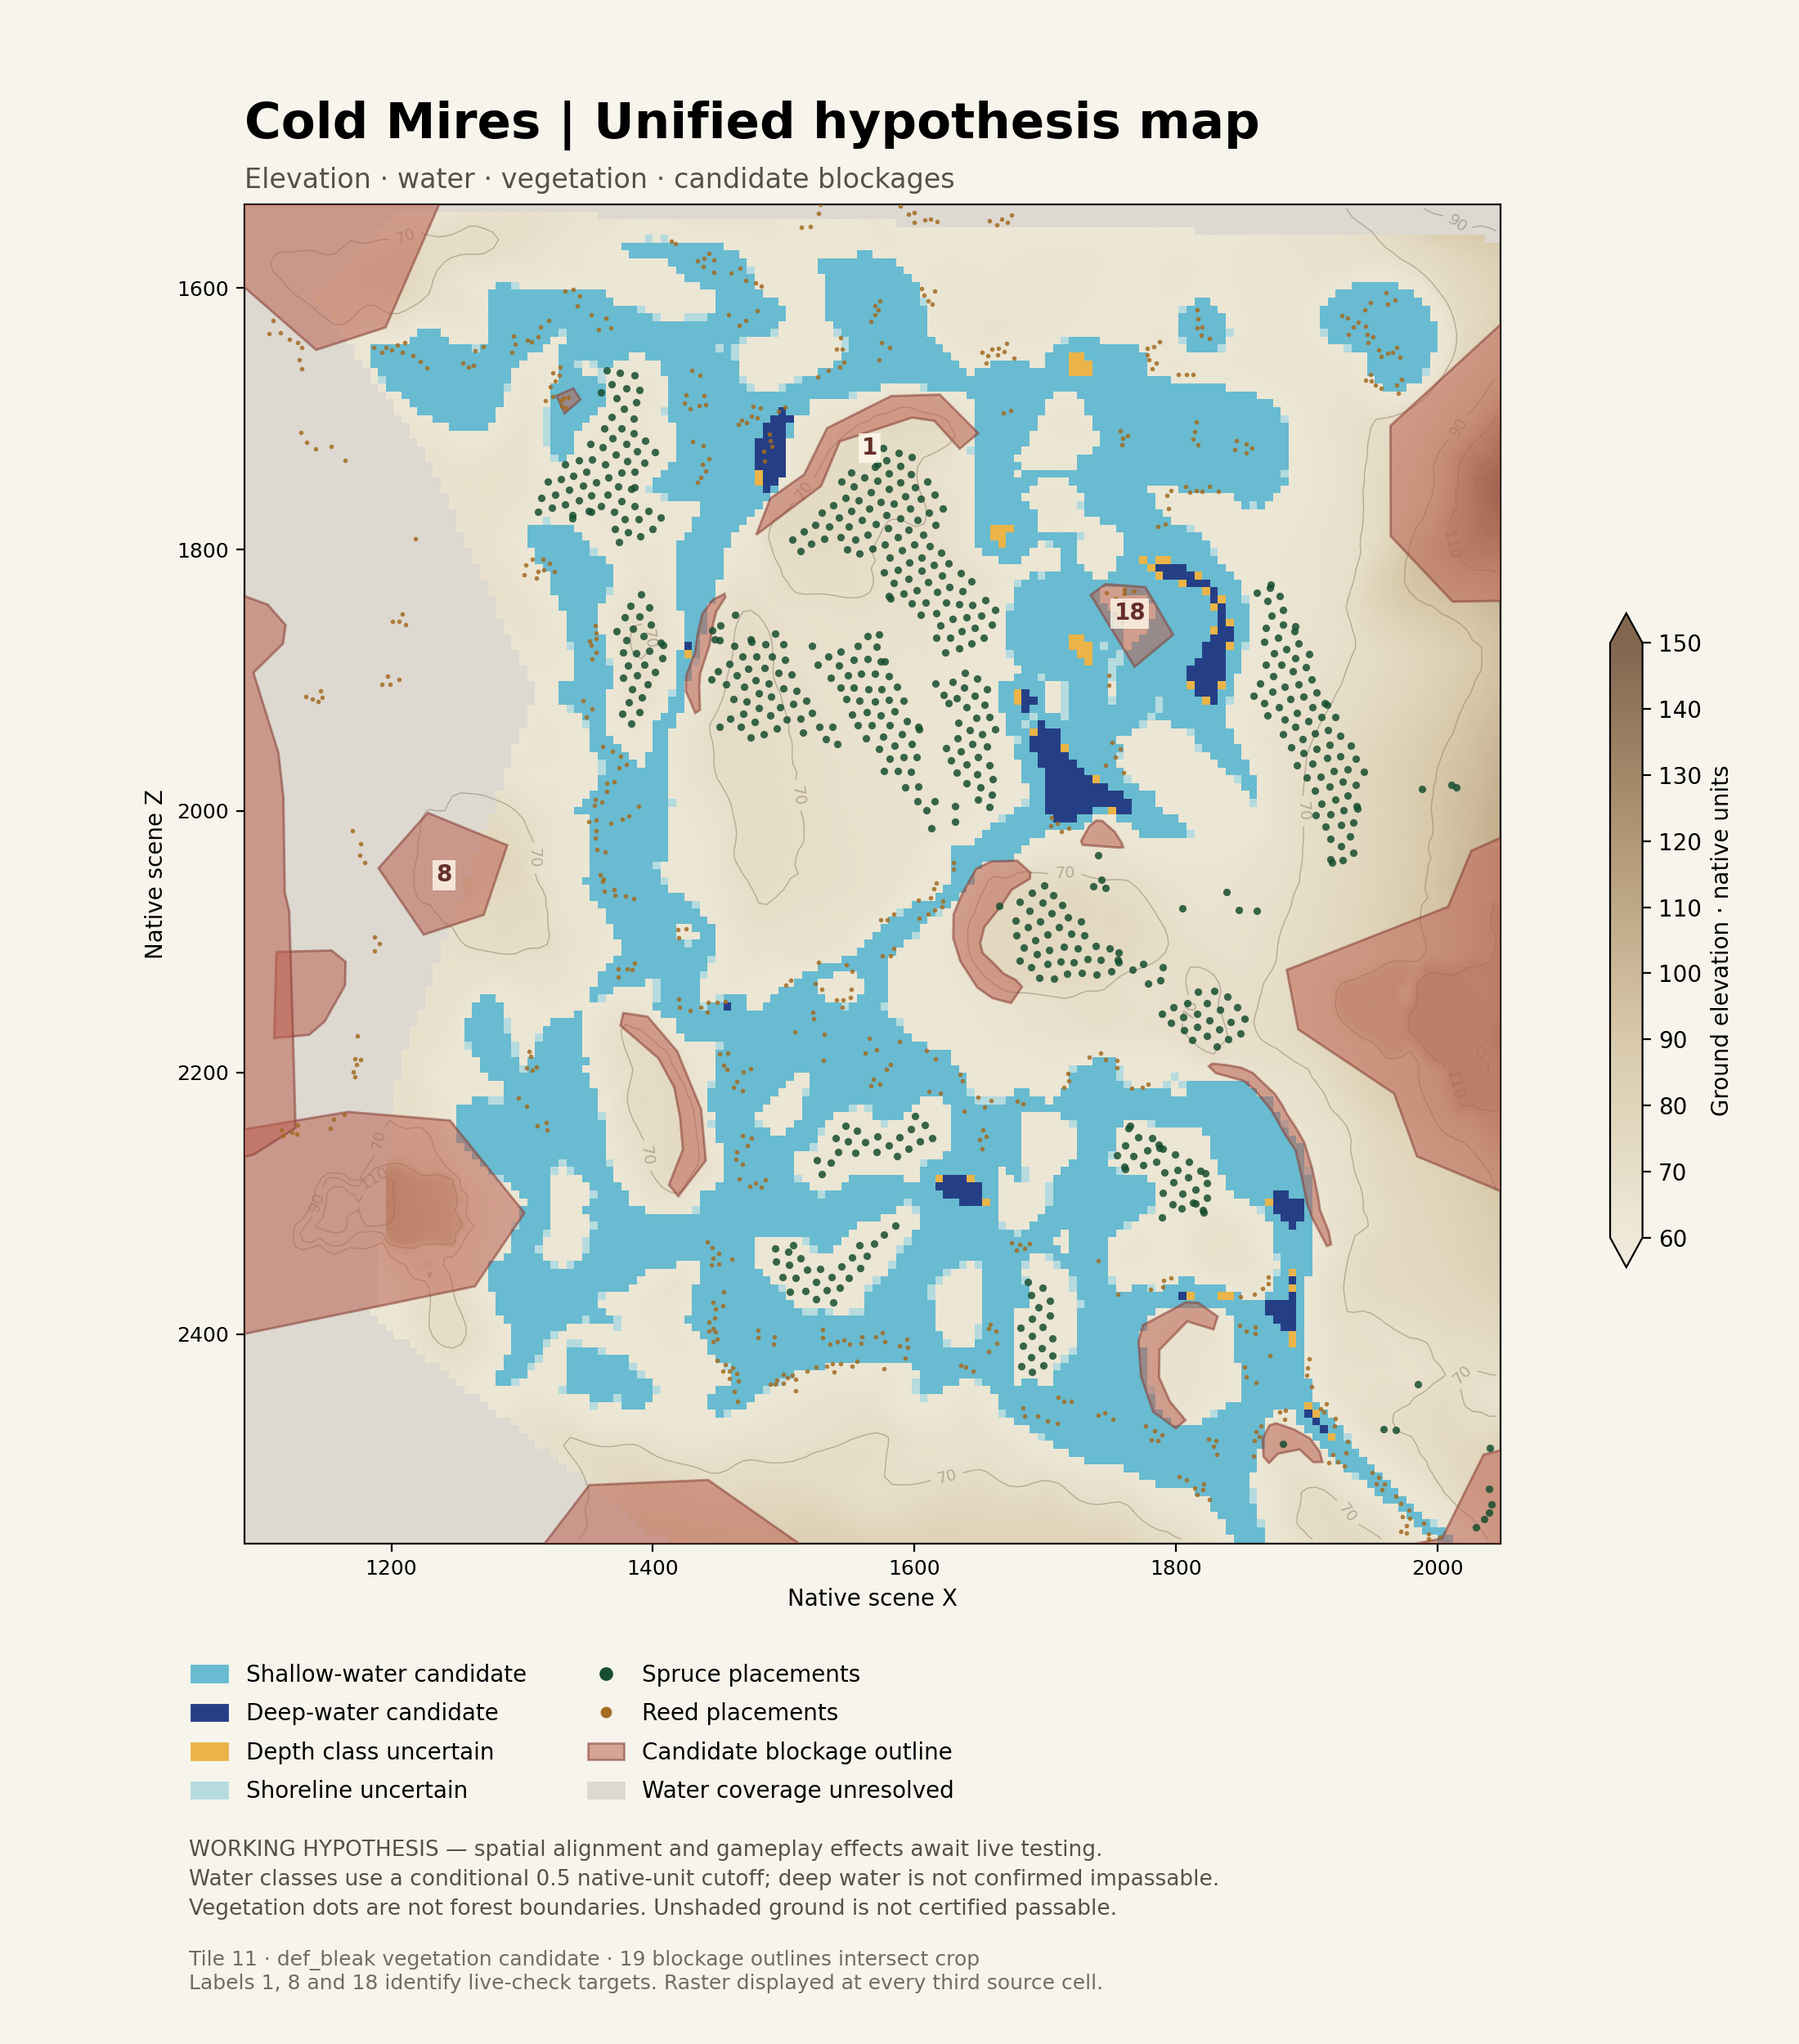
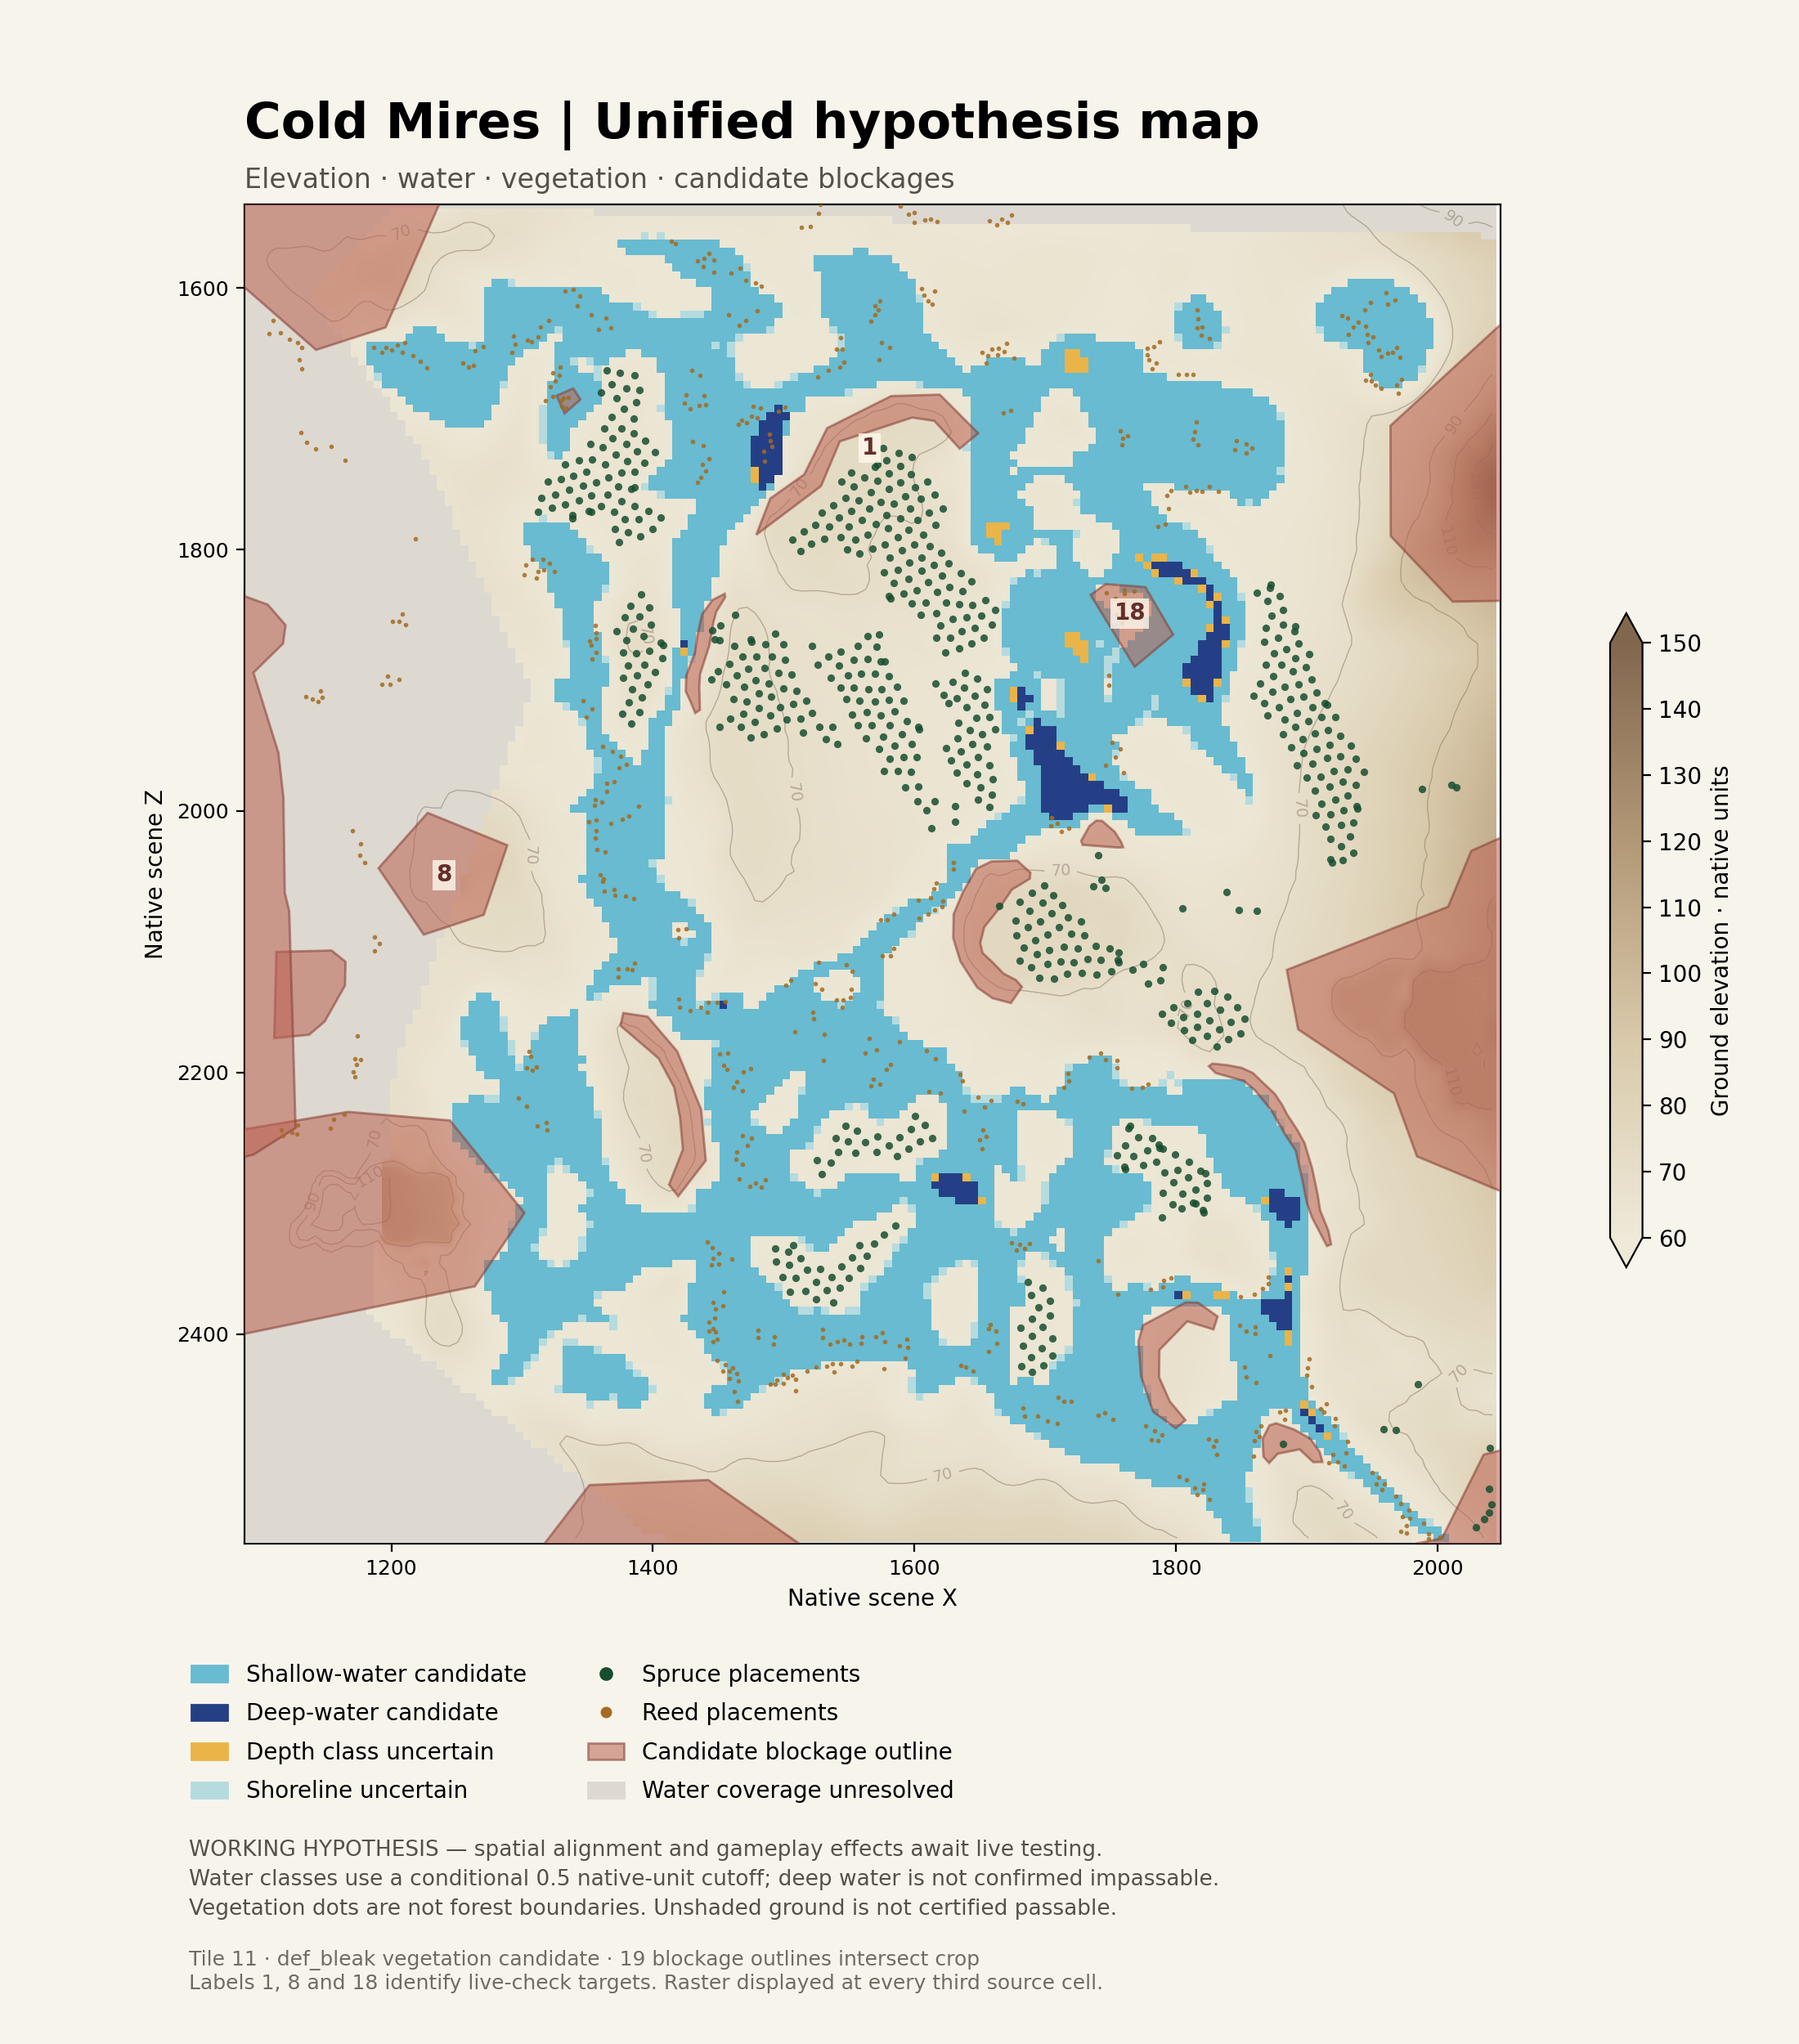
Align Cold Mires raster rendering with source sample coordinates

diff --git a/scripts/cold_mires/render.py b/scripts/cold_mires/render.py
@@ -21,11 +21,16 @@ a={k:m.r[k][::3,::3] for k in m.r.files}
 b={'non_terrain_outlines':[v['points_xz'] for v in m.f['blockage_candidates']]}
 trees=m.f['vegetation']
 lab,depth=classify(a['ground'],a['water'],a['raw_water'],**m.manifest['water_classifier']['parameters'])
-extent=(1088,2048,2560,1536)
+# imshow bounds are pixel edges; preserve the retained source sample centers.
+coords=m.manifest['coordinates']
+dx,dz=np.asarray(coords['sample_spacing_xz'])*3
+xs=coords['sample_origin_xz'][0]+np.arange(a['ground'].shape[1])*dx
+zs=coords['sample_origin_xz'][1]+np.arange(a['ground'].shape[0])*dz
+extent=(xs[0]-dx/2,xs[-1]+dx/2,zs[-1]+dz/2,zs[0]-dz/2)
 fig,ax=plt.subplots(figsize=(11,12.5),facecolor='#f7f4ec')
 earth=LinearSegmentedColormap.from_list('earth',['#eee9d8','#d8c9aa','#b29876','#82674f'])
 im=ax.imshow(a['ground'],cmap=earth,origin='upper',extent=extent,vmin=60,vmax=150,interpolation='bilinear')
-cont=ax.contour(a['ground'],levels=[70,90,110,130,150],colors='#857565',linewidths=.5,alpha=.5,origin='upper',extent=extent)
+cont=ax.contour(xs,zs,a['ground'],levels=[70,90,110,130,150],colors='#857565',linewidths=.5,alpha=.5)
 ax.clabel(cont,inline=True,fontsize=7,fmt='%d')
 for value,color in [(0,'#ddd9d1'),(2,'#b5dbdf'),(3,'#68bbd0'),(4,'#eab448'),(5,'#253f86')]:
     ax.imshow(np.ma.masked_where(lab!=value,np.ones(lab.shape)),cmap=ListedColormap([color]),origin='upper',extent=extent,interpolation='nearest')
